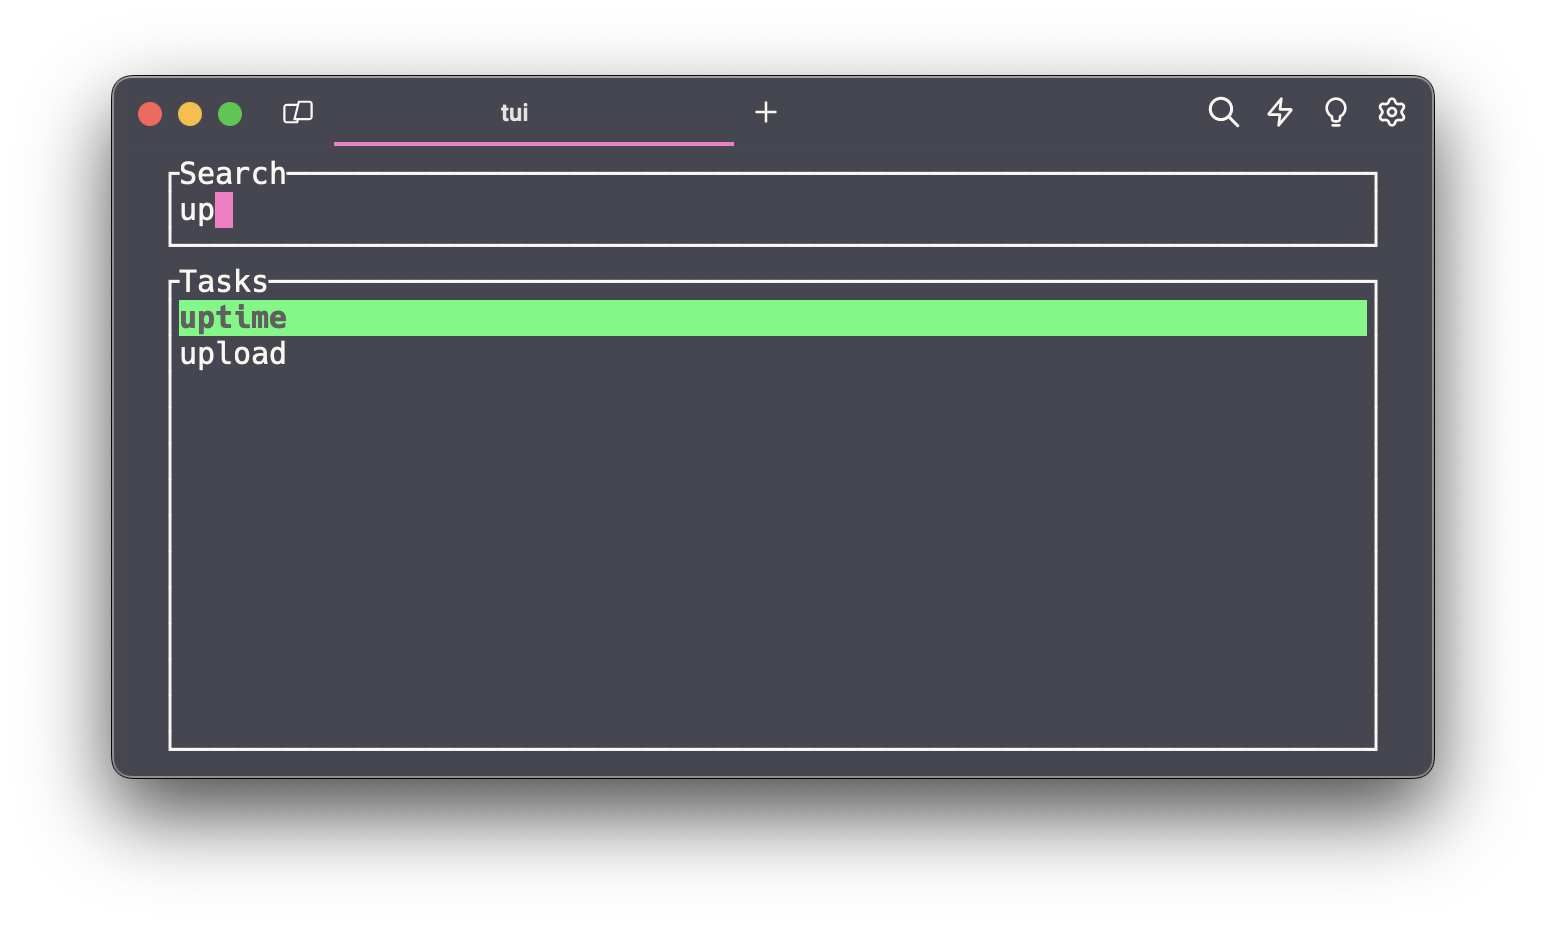
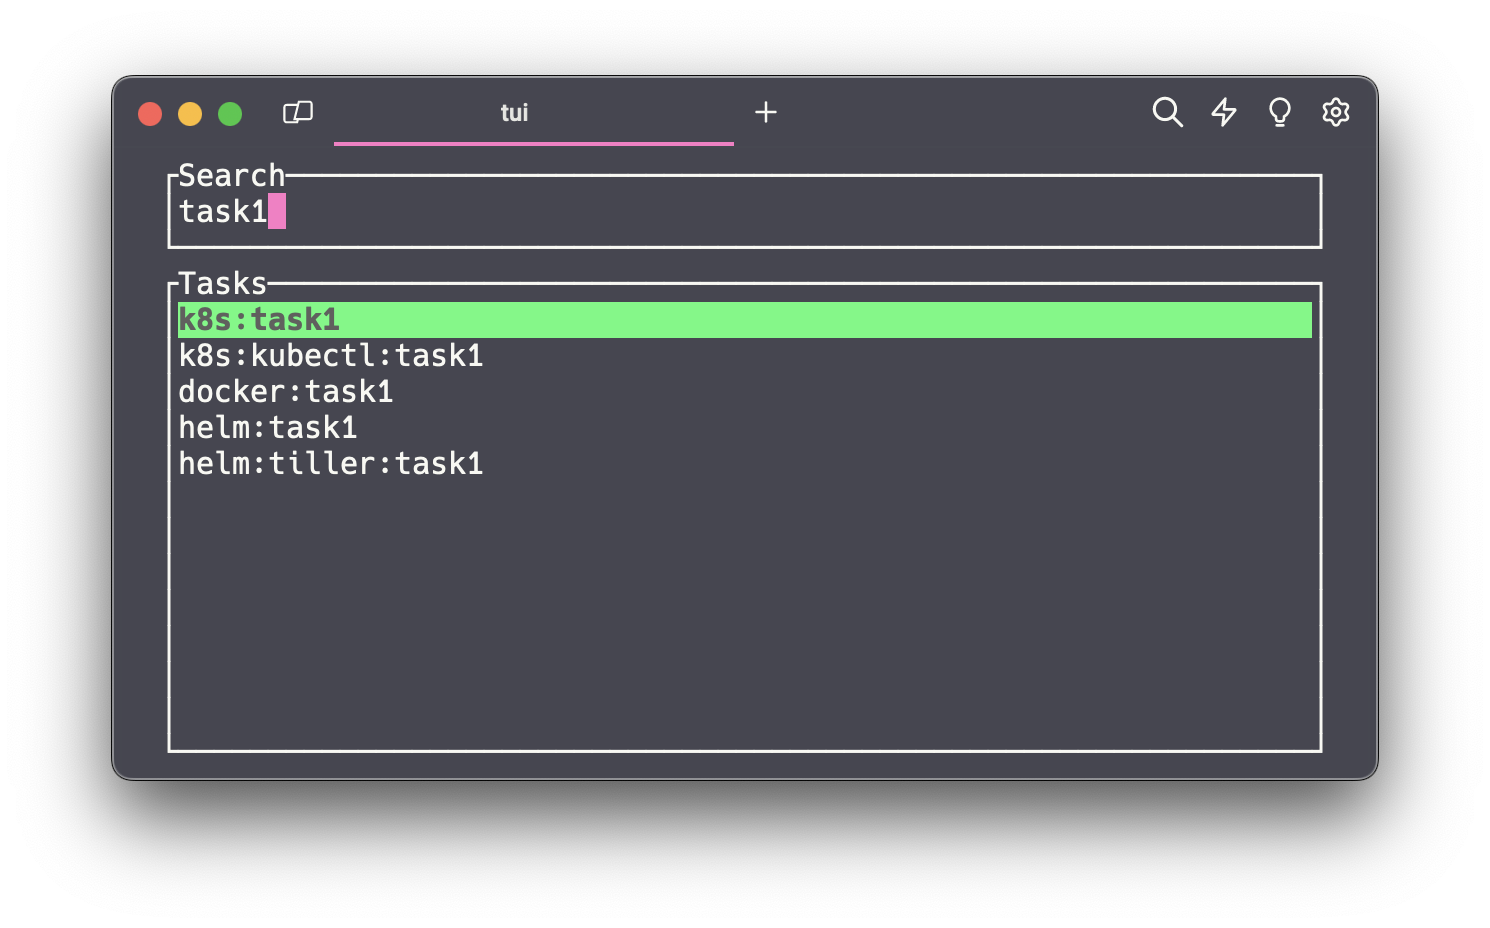
Support includes

diff --git a/src/taskfile/config.rs b/src/taskfile/config.rs
@@ -1,51 +1,189 @@
 use anyhow::{bail, Result};
 use serde_yaml::Value;
-use std::fs::{metadata, File};
-
-pub struct Taskfile {
-    pub tasks: Vec<Task>,
-}
+use std::{
+    fs::{metadata, File},
+    path::PathBuf,
+};
 
 #[derive(Clone)]
 pub struct Task {
     pub name: String,
 }
 
-pub fn load() -> Result<Taskfile> {
-    let cfg_file = open_file()?;
+#[derive(Clone)]
+struct Include {
+    name: String,
+    path: String,
+    optional: bool,
+}
 
-    let cfg: Value = serde_yaml::from_reader(cfg_file)?;
+pub fn load() -> Result<Vec<Task>> {
+    let taskfile = File::open(find_supported_file()?).unwrap();
+    let taskfile_yml: Value = serde_yaml::from_reader(taskfile)?;
 
-    let mut task_list: Vec<Task> = Vec::new();
+    let mut tasks = get_tasks(&taskfile_yml)?;
+    let includes = get_includes(&taskfile_yml)?;
+    let current_path = std::env::current_dir().unwrap();
+    let included_tasks = handle_includes(
+        includes.unwrap_or(Vec::new()),
+        current_path.to_str().unwrap(),
+    )?;
 
-    if let Some(tasks) = cfg.get("tasks").and_then(Value::as_mapping) {
-        for (key, _) in tasks {
+    tasks.extend(included_tasks.into_iter());
+
+    Ok(tasks)
+}
+
+fn find_supported_file() -> Result<&'static str> {
+    // https://taskfile.dev/usage/#supported-file-names
+    let file_names = vec![
+        "Taskfile.yml",
+        "taskfile.yml",
+        "Taskfile.yaml",
+        "taskfile.yaml",
+        "Taskfile.dist.yml",
+        "taskfile.dist.yml",
+        "Taskfile.dist.yaml",
+        "taskfile.dist.yaml",
+    ];
+
+    let found = file_names
+        .iter()
+        .find(|&file_name| metadata(file_name).is_ok())
+        .map(|&file_name| file_name);
+
+    match found {
+        Some(file_name) => Ok(file_name),
+        None => bail!("no supported file found"),
+    }
+}
+
+fn handle_includes(includes: Vec<Include>, current_path: &str) -> Result<Vec<Task>> {
+    let mut tasks: Vec<Task> = Vec::new();
+
+    for include in includes {
+        let include_path = PathBuf::from(current_path).join(include.path.clone());
+
+        match File::open(&include_path) {
+            Ok(taskfile) => {
+                let taskfile_yml: Value = serde_yaml::from_reader(taskfile)?;
+                let include_tasks = get_tasks(&taskfile_yml)?;
+                let include_tasks: Vec<Task> =
+                    prefix_tasks(include_tasks.clone(), include.name.clone());
+                tasks.extend(include_tasks);
+
+                if let Some(sub_includes) = get_includes(&taskfile_yml)? {
+                    // remove filename from path
+                    let include_path = include_path.parent().unwrap().to_str().unwrap();
+                    let sub_include_tasks = handle_includes(sub_includes, include_path)?;
+                    let sub_include_tasks: Vec<Task> =
+                        prefix_tasks(sub_include_tasks.clone(), include.name.clone());
+                    tasks.extend(sub_include_tasks);
+                }
+            }
+            Err(_) => {
+                if include.optional {
+                    continue;
+                } else {
+                    bail!("include not found: {}", include.path);
+                }
+            }
+        }
+    }
+
+    Ok(tasks)
+}
+
+fn prefix_tasks(tasks: Vec<Task>, include_name: String) -> Vec<Task> {
+    tasks
+        .into_iter()
+        .map(|task| Task {
+            name: format!("{}:{}", include_name, task.name),
+        })
+        .collect()
+}
+
+fn get_tasks(taskfile_yml: &Value) -> Result<Vec<Task>> {
+    let mut tasks: Vec<Task> = Vec::new();
+
+    if let Some(task_mapping) = taskfile_yml.get("tasks").and_then(Value::as_mapping) {
+        for (key, _) in task_mapping {
             let task_name = key.as_str().unwrap().to_string();
-            task_list.push(Task { name: task_name });
+            tasks.push(Task { name: task_name });
         }
     } else {
         bail!("failed to extract tasks")
     }
 
-    let taskfile = Taskfile { tasks: task_list };
-
-    Ok(taskfile)
+    Ok(tasks)
 }
 
-fn open_file() -> Result<File> {
-    let file_names = vec!["Taskfile.yml", "Taskfile.yaml"];
+fn get_includes(taskfile_yml: &Value) -> Result<Option<Vec<Include>>> {
+    let mut includes: Vec<Include> = Vec::new();
 
-    let mut found = None;
+    if let Some(include_mapping) = taskfile_yml.get("includes").and_then(Value::as_mapping) {
+        for (key, value) in include_mapping {
+            let name = extract_include_name(key);
+            let path = extract_include_path(value)?;
+            let optional = extract_include_optional(value)?;
 
-    for &file_name in &file_names {
-        if metadata(file_name).is_ok() {
-            found = Some(file_name);
-            break;
+            includes.push(Include {
+                name,
+                path,
+                optional,
+            });
         }
+    } else {
+        return Ok(None);
     }
 
-    match found {
-        Some(file_name) => Ok(File::open(file_name).unwrap()),
-        None => bail!("Taskfile.(yml/yaml) not found"),
+    Ok(Some(includes))
+}
+
+fn extract_include_name(include_key: &Value) -> String {
+    include_key.as_str().unwrap().to_string()
+}
+
+fn extract_include_path(include_yml: &Value) -> Result<String> {
+    let path = match include_yml {
+        Value::String(path) if path.ends_with(".yml") || path.ends_with(".yaml") => {
+            path.to_string()
+        }
+        Value::String(path) if path.ends_with("/") => format!("{}Taskfile.yml", path),
+        Value::String(path) => format!("{}/Taskfile.yml", path),
+        Value::Mapping(v) => {
+            if let Some(taskfile) = v.get(&Value::String("taskfile".to_string())) {
+                if let Value::String(s) = taskfile {
+                    if s.ends_with(".yml") || s.ends_with(".yaml") {
+                        s.to_string()
+                    } else {
+                        bail!("value of taskfile key must end with .yml or .yaml")
+                    }
+                } else {
+                    bail!("value of taskfile key must be of type string")
+                }
+            } else {
+                bail!("taskfile key not found in include mapping")
+            }
+        }
+        _ => bail!("invalid include found"),
+    };
+
+    Ok(path)
+}
+
+fn extract_include_optional(include_yml: &Value) -> Result<bool> {
+    match include_yml {
+        Value::Mapping(v) => {
+            if let Some(optional) = v
+                .get(&Value::String("optional".to_string()))
+                .and_then(Value::as_bool)
+            {
+                Ok(optional)
+            } else {
+                Ok(false)
+            }
+        }
+        _ => Ok(false),
     }
 }

diff --git a/src/app/app.rs b/src/app/app.rs
@@ -1,4 +1,4 @@
-use crate::taskfile::config::{Task, Taskfile};
+use crate::taskfile::config::Task;
 use anyhow::Result;
 use crossterm::event::{self, Event, KeyCode, KeyEventKind};
 use ratatui::{
@@ -115,9 +115,9 @@ pub struct State {
 }
 
 impl State {
-    pub fn new(taskfile: Taskfile) -> State {
+    pub fn new(tasks: Vec<Task>) -> State {
         State {
-            tasks: StatefulList::with_items(taskfile.tasks),
+            tasks: StatefulList::with_items(tasks),
             search: String::new(),
             input_mode: InputMode::Select,
         }

diff --git a/README.md b/README.md
@@ -37,6 +37,13 @@ alias tui="/path/to/taskui"
 ```yaml
 version: '3'
 
+includes:
+  k8s: ./k8s.yml
+  docker: ./docker # requires ./docker/Taskfile.yml to exits
+  helm:
+    taskfile: ./helm.yml
+    optional: true
+
 tasks:
   uptime:
     cmds:
